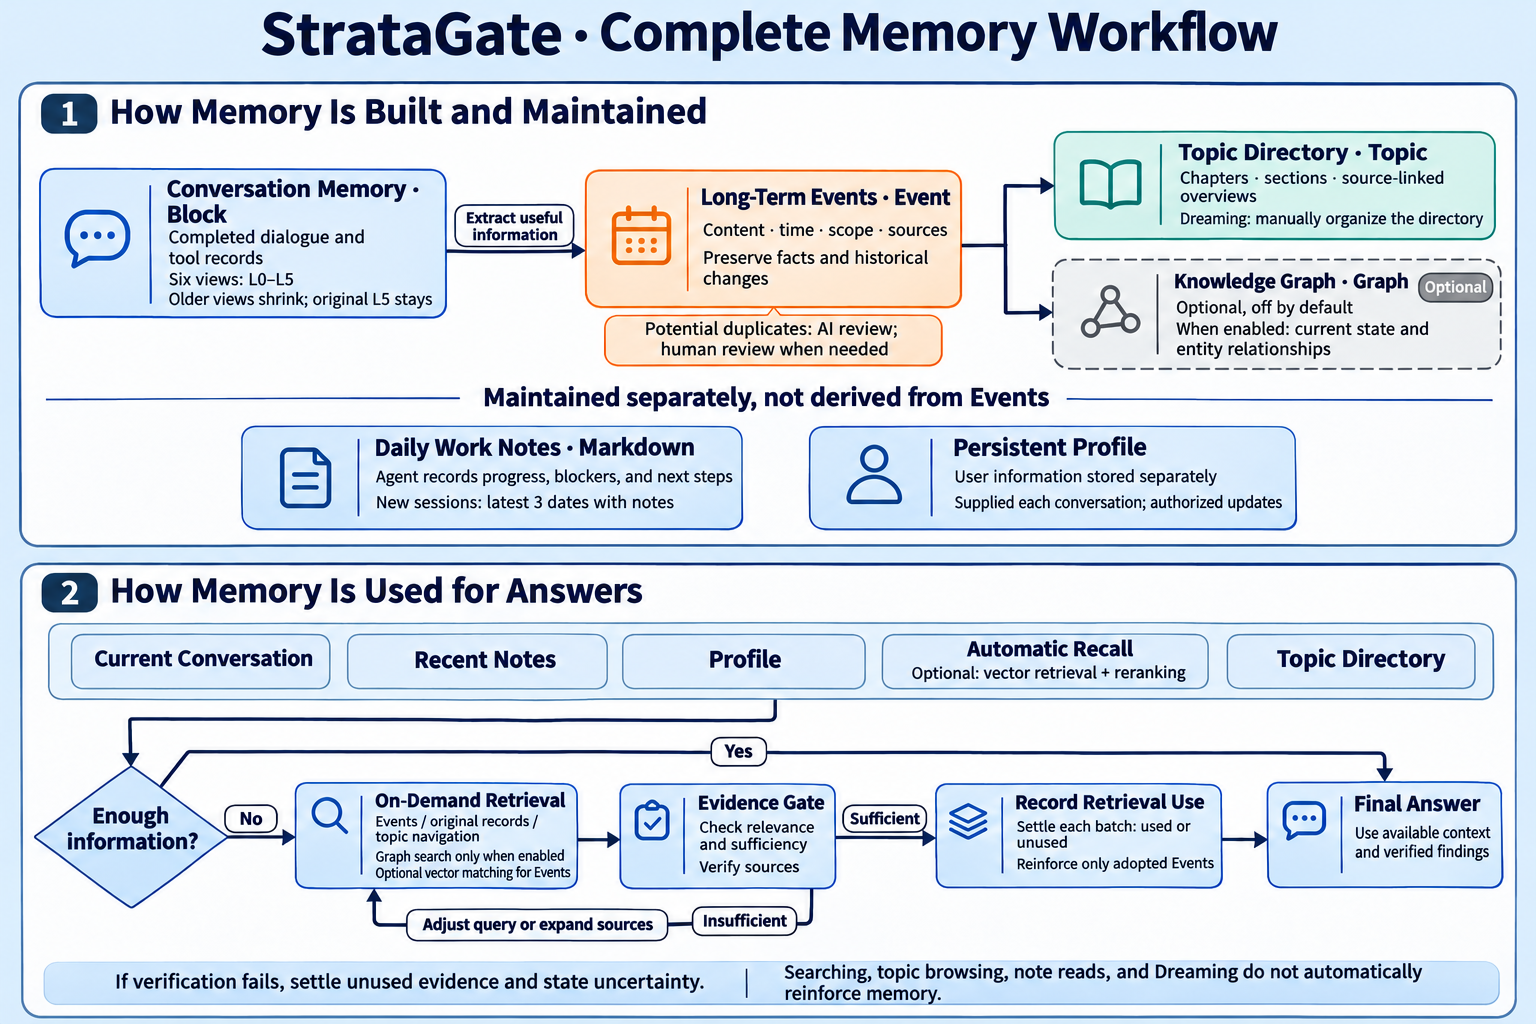
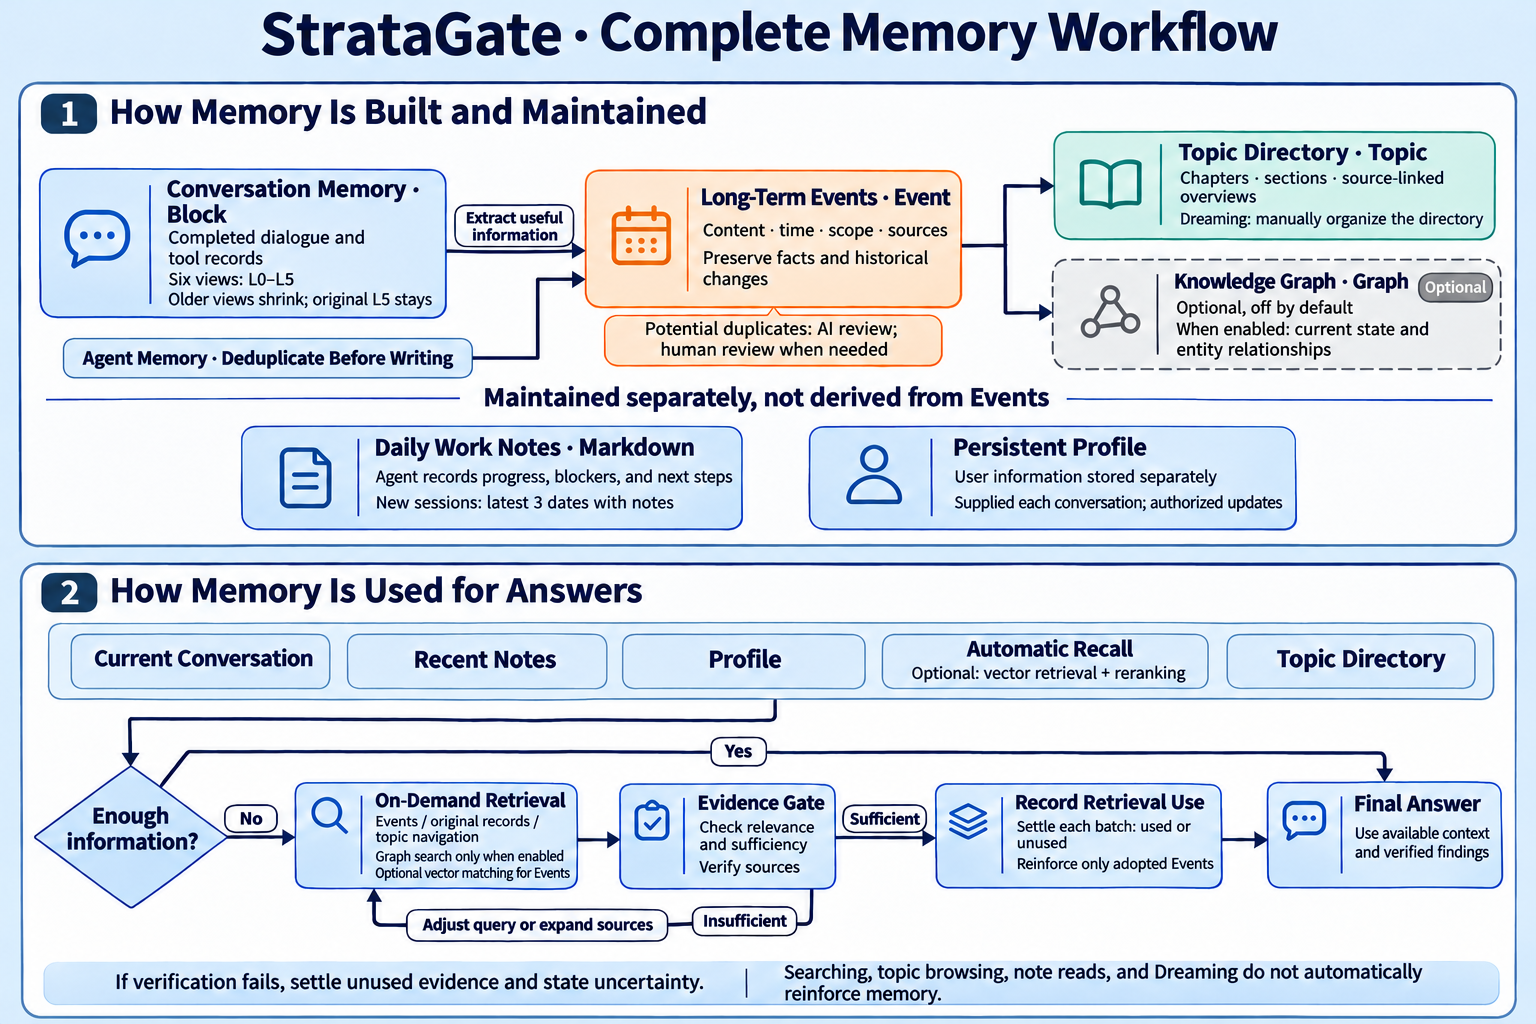
docs: clarify retrieval privacy and active memory workflow

diff --git a/README.md b/README.md
@@ -57,7 +57,7 @@ StrataGate is a cross-session memory plugin for DeepSeek Harness. Daily notes he
 
 1. **Daily notes carry work forward; historical conversations can be expanded.**
 
-   (1) **Daily notes help resume work.** The agent records progress, intermediate results, useful lessons from failures, blockers, and next steps by date. New sessions include notes from the three most recent dates with notes by default, reducing the need to repeat background information.
+   (1) **Daily notes help resume work.** The agent records progress, intermediate results, useful lessons from failures, blockers, and next steps by date. New sessions include notes from the three most recent dates with notes by default, reducing the need to repeat background information. → [Daily notes](#daily-notes)
 
    (2) **Conversation memory keeps recent detail and makes older history concise.** Each conversation block has six views, L0–L5, with different levels of detail. As more conversation accumulates, older dialogue gradually becomes key facts, short summaries, and title indexes, reducing the context occupied by history. → [Layered conversation memory](#layered-memory)
 
@@ -193,8 +193,6 @@ The model produces L0–L2 summaries. L3 and L4 do not use model paraphrasing; c
 - **Length guard:** If generated L4 would be longer than L5, L5 is used instead. If L3 would be longer than L4, L4 is used instead, preserving `L3 ≤ L4 ≤ L5`.
 
 Source records are saved first, followed by summarization and Event processing. Only a fully processed, ready Block can replace its corresponding native history and participate in decay.
-
-**As more conversation accumulates, older Blocks default to less detail.**
 
 Display changes follow exponential decay:
 
@@ -444,6 +442,8 @@ The memory-processing model uses providers and models already configured in DSH.
 In advanced settings, enter each service's API URL, key, and model, then save. A service is enabled only when its configuration is complete; clear its URL and save to disable it.
 
 The embedding model supplements semantic matching, while the reranking model refines automatic-recall order. Neither replaces Event sources or the evidence gate's assessment.
+
+When enabled, the search text and Event titles and summaries (candidate Event content for reranking) are sent to the selected service provider and may incur API charges.
 
 **Restart the corresponding DSH profile after upgrading.**
 
